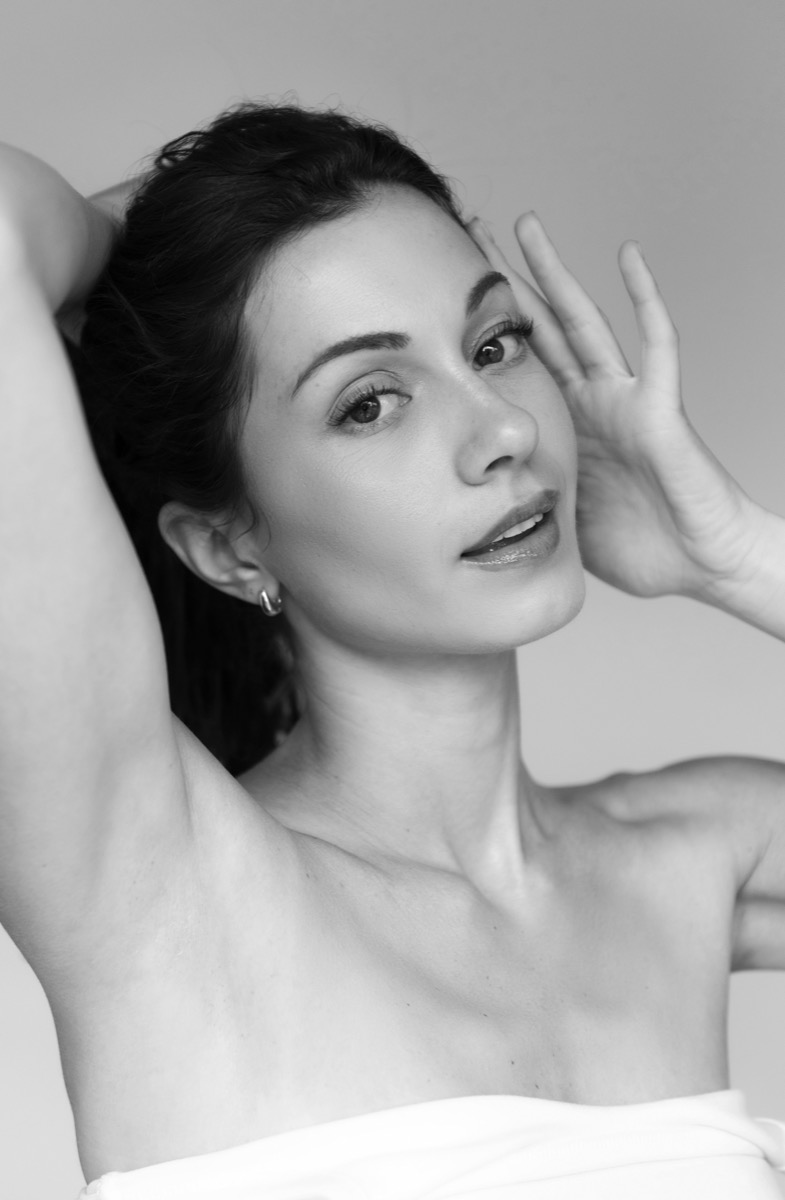
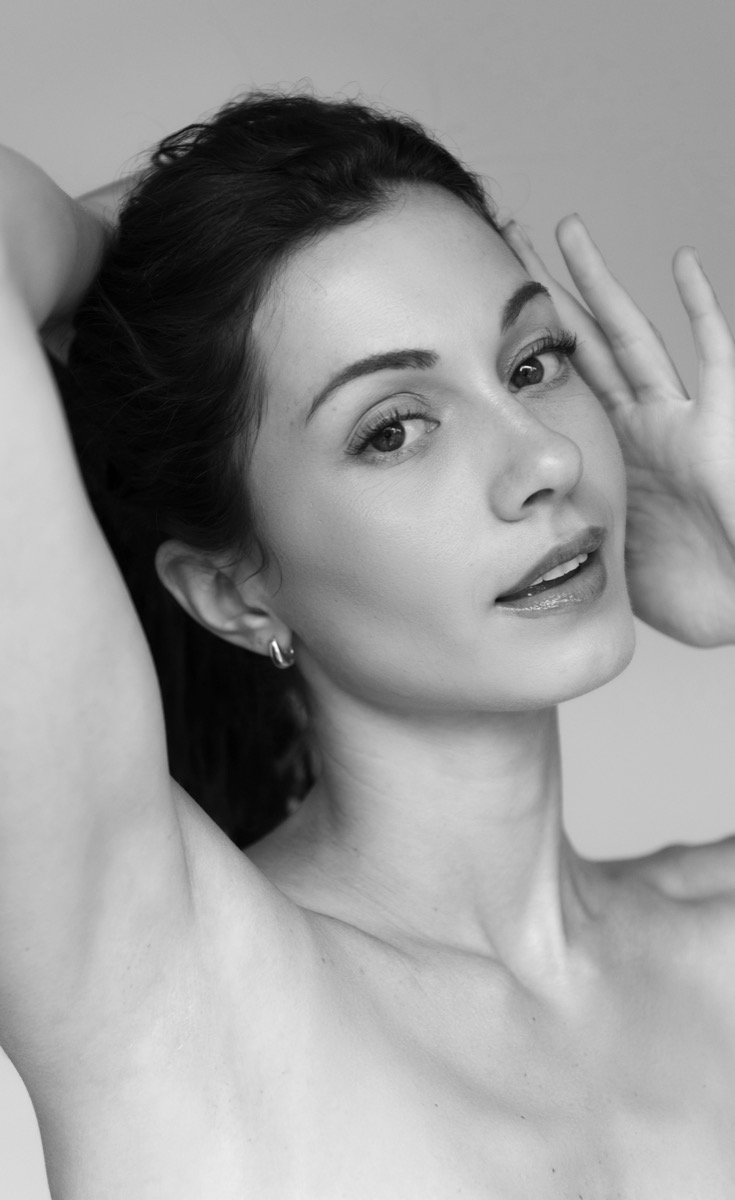
Update portfolio images, contact form with Google Sheets integration, social links, UI refinements

diff --git a/src/components/Contact.jsx b/src/components/Contact.jsx
@@ -12,30 +12,116 @@ export default function Contact() {
     setFormData({ ...formData, [e.target.name]: e.target.value })
   }
 
-  const handleSubmit = (e) => {
+  const [submitting, setSubmitting] = useState(false)
+  const [submitted, setSubmitted] = useState(false)
+
+  const handleSubmit = async (e) => {
     e.preventDefault()
-    // Replace with Formspree or Netlify Forms action
-    console.log('Form submitted:', formData)
-    alert('Message sent — thank you.')
-    setFormData({ name: '', email: '', role: '', message: '' })
+    setSubmitting(true)
+    try {
+      const params = new URLSearchParams()
+      params.append('name', formData.name)
+      params.append('email', formData.email)
+      params.append('role', formData.role)
+      params.append('message', formData.message)
+      await fetch(
+        'https://script.google.com/macros/s/AKfycbw0lHW82Pw77QO_wZfwR3euM-FtFJKcykudnogYUiNATv_z9y13boIBIRutliKRH0si/exec',
+        {
+          method: 'POST',
+          mode: 'no-cors',
+          body: params,
+        }
+      )
+      setSubmitted(true)
+      setFormData({ name: '', email: '', role: '', message: '' })
+    } catch (err) {
+      alert('Something went wrong — please try again.')
+    }
+    setSubmitting(false)
   }
 
   return (
     <section id="contact" className="bg-surface">
       <div className="max-w-[1400px] mx-auto px-6 md:px-12 py-16 md:py-28">
         <div className="reveal mb-10 md:mb-14">
-          <span className="text-[11px] tracking-[0.2em] uppercase text-muted font-light">
+          <span className="text-[11px] tracking-[0.2em] uppercase text-espresso/60 font-light">
             Contact
           </span>
         </div>
 
-        <div className="grid grid-cols-1 lg:grid-cols-2 gap-12 md:gap-16 lg:gap-24">
+        {/* Representation + Social */}
+        <div className="reveal mb-14 md:mb-18">
+          {/* Representation */}
+          <div className="mb-6">
+            <p className="text-[12px] tracking-[0.15em] uppercase text-espresso/60 font-light mb-2">
+              Representation
+            </p>
+            <p className="text-[15px] font-light text-espresso">
+              State Mgmt &mdash;{' '}
+              <a
+                href="https://www.statemgmt.com/new-york/new-york-fit/women/1841393/nina-gamgort"
+                target="_blank"
+                rel="noopener noreferrer"
+                className="glow-hover inline-flex items-center gap-1 text-accent-blue hover:text-accent-blue/80 transition-colors duration-300 rounded-sm px-1 -mx-1"
+              >
+                Portfolio Link Here
+                <svg width="10" height="10" viewBox="0 0 12 12" fill="none" className="translate-y-[0.5px]">
+                  <path d="M1 11L11 1M11 1H3M11 1V9" stroke="currentColor" strokeWidth="1" />
+                </svg>
+              </a>
+            </p>
+          </div>
+
+          {/* Social icons — below representation */}
+          <div className="flex items-center gap-4">
+            <a
+              href="https://www.instagram.com/ninagamgort/"
+              target="_blank"
+              rel="noopener noreferrer"
+              className="glow-hover w-14 h-14 rounded-full border border-espresso/15 flex items-center justify-center text-espresso/50 hover:text-espresso hover:border-espresso/30 transition-all duration-300"
+              aria-label="Instagram"
+            >
+              <svg width="26" height="26" viewBox="0 0 24 24" fill="none" stroke="currentColor" strokeWidth="1.5" strokeLinecap="round" strokeLinejoin="round">
+                <rect x="2" y="2" width="20" height="20" rx="5" />
+                <circle cx="12" cy="12" r="5" />
+                <circle cx="17.5" cy="6.5" r="1" fill="currentColor" stroke="none" />
+              </svg>
+            </a>
+
+            <a
+              href="https://www.tiktok.com/@ninagamgort"
+              target="_blank"
+              rel="noopener noreferrer"
+              className="glow-hover w-14 h-14 rounded-full border border-espresso/15 flex items-center justify-center text-espresso/50 hover:text-espresso hover:border-espresso/30 transition-all duration-300"
+              aria-label="TikTok"
+            >
+              <svg width="24" height="26" viewBox="0 0 15 16" fill="currentColor">
+                <path d="M10.5 0C10.5 2.5 12.5 3.5 14 3.5V6C12.5 6 10.5 5 10.5 5V11C10.5 14 8 16 5.5 16C3 16 0.5 14 0.5 11C0.5 8 3 6 5.5 6V8.5C4 8.5 3 9.5 3 11C3 12.5 4 13.5 5.5 13.5C7 13.5 8 12.5 8 11V0H10.5Z" />
+              </svg>
+            </a>
+
+            <a
+              href="https://www.imdb.com/name/nm4795466/"
+              target="_blank"
+              rel="noopener noreferrer"
+              className="glow-hover w-14 h-14 rounded-full border border-espresso/15 flex items-center justify-center text-espresso/50 hover:text-espresso hover:border-espresso/30 transition-all duration-300"
+              aria-label="IMDb"
+            >
+              <svg width="26" height="26" viewBox="0 0 24 24" fill="currentColor">
+                <rect x="2" y="4" width="20" height="16" rx="2" />
+                <text x="12" y="15.5" textAnchor="middle" fill="#F7F4EF" fontSize="7" fontWeight="700" fontFamily="Arial, sans-serif">IMDb</text>
+              </svg>
+            </a>
+          </div>
+        </div>
+
+        <div className="grid grid-cols-1 lg:grid-cols-2 gap-8 md:gap-10 lg:gap-16">
           {/* Left — statement */}
-          <div className="reveal flex flex-col justify-center">
-            <p className="font-serif text-3xl md:text-4xl lg:text-[42px] text-espresso font-light leading-[1.2] mb-6">
+          <div className="reveal flex flex-col justify-start">
+            <p className="font-serif text-3xl md:text-4xl lg:text-[42px] text-espresso font-light leading-[1.2] mb-4">
               Available for campaigns, commercial, film, and TV.
             </p>
-            <p className="font-serif text-xl md:text-2xl text-accent-amber/80 font-light italic">
+            <p className="font-serif text-xl md:text-2xl text-accent-amber font-light italic">
               I can't wait to meet you.
             </p>
           </div>
@@ -51,7 +137,7 @@ export default function Contact() {
                   value={formData.name}
                   onChange={handleChange}
                   required
-                  className="w-full bg-transparent border-b border-espresso/10 py-3 text-[14px] font-light text-espresso placeholder:text-muted/40 tracking-[0.04em] transition-colors"
+                  className="w-full bg-transparent border-b border-espresso/20 py-3 text-[14px] font-light text-espresso placeholder:text-espresso/40 tracking-[0.04em] transition-colors"
                 />
               </div>
 
@@ -63,7 +149,7 @@ export default function Contact() {
                   value={formData.email}
                   onChange={handleChange}
                   required
-                  className="w-full bg-transparent border-b border-espresso/10 py-3 text-[14px] font-light text-espresso placeholder:text-muted/40 tracking-[0.04em] transition-colors"
+                  className="w-full bg-transparent border-b border-espresso/20 py-3 text-[14px] font-light text-espresso placeholder:text-espresso/40 tracking-[0.04em] transition-colors"
                 />
               </div>
 
@@ -73,7 +159,7 @@ export default function Contact() {
                   value={formData.role}
                   onChange={handleChange}
                   required
-                  className="w-full bg-transparent border-b border-espresso/10 py-3 text-[14px] font-light text-espresso tracking-[0.04em] transition-colors appearance-none cursor-pointer"
+                  className="w-full bg-transparent border-b border-espresso/20 py-3 text-[14px] font-light text-espresso tracking-[0.04em] transition-colors appearance-none cursor-pointer"
                   style={{
                     color: formData.role ? undefined : 'rgba(122, 116, 108, 0.4)',
                   }}
@@ -94,20 +180,27 @@ export default function Contact() {
                   onChange={handleChange}
                   rows={4}
                   required
-                  className="w-full bg-transparent border-b border-espresso/10 py-3 text-[14px] font-light text-espresso placeholder:text-muted/40 tracking-[0.04em] transition-colors resize-none"
+                  className="w-full bg-transparent border-b border-espresso/20 py-3 text-[14px] font-light text-espresso placeholder:text-espresso/40 tracking-[0.04em] transition-colors resize-none"
                 />
               </div>
 
               <div className="pt-4">
-                <button
-                  type="submit"
-                  className="submit-glow group inline-flex items-center gap-3 text-[12px] tracking-[0.15em] uppercase font-light text-espresso hover:text-accent-blue transition-colors duration-300 px-5 py-2.5 rounded-full border border-transparent hover:border-accent-blue/15 glow-hover"
-                >
-                  <span>Contact Nina</span>
-                  <svg width="20" height="8" viewBox="0 0 20 8" fill="none" className="transition-transform duration-300 group-hover:translate-x-1">
-                    <path d="M0 4H18M18 4L14 0.5M18 4L14 7.5" stroke="currentColor" strokeWidth="0.75" />
-                  </svg>
-                </button>
+                {submitted ? (
+                  <p className="text-[13px] tracking-[0.08em] text-accent-blue font-light">
+                    Thank you — your message has been sent.
+                  </p>
+                ) : (
+                  <button
+                    type="submit"
+                    disabled={submitting}
+                    className="submit-glow group inline-flex items-center gap-3 text-[12px] tracking-[0.15em] uppercase font-light text-espresso hover:text-accent-blue transition-colors duration-300 px-5 py-2.5 rounded-full border border-transparent hover:border-accent-blue/15 glow-hover disabled:opacity-50"
+                  >
+                    <span>{submitting ? 'Sending...' : 'Contact Nina'}</span>
+                    <svg width="20" height="8" viewBox="0 0 20 8" fill="none" className="transition-transform duration-300 group-hover:translate-x-1">
+                      <path d="M0 4H18M18 4L14 0.5M18 4L14 7.5" stroke="currentColor" strokeWidth="0.75" />
+                    </svg>
+                  </button>
+                )}
               </div>
             </form>
           </div>

diff --git a/src/components/About.jsx b/src/components/About.jsx
@@ -26,19 +26,15 @@ export default function About() {
         <div className="reveal flex flex-col justify-center">
           <div className="max-w-lg">
             <p className="text-[15px] md:text-[16px] leading-[1.8] text-espresso/85 font-light mb-6">
-              Nina has built her career on the thing most people mistake for simplicity — knowing exactly how to be present. After years of fit and campaign work with brands like Calvin Klein, Coach, and L'Oréal, she brings a grounded, instinctive quality to every frame.
+              Nina is an actress and model based in New York City. With campaign, ecommerce, and fit work spanning Pampers, Uniqlo, Calvin Klein, Coach, and L'Oréal, she brings a grounded, instinctive quality to every frame.
             </p>
 
             <p className="text-[15px] md:text-[16px] leading-[1.8] text-espresso/85 font-light mb-6">
-              The Pampers box. The L'Oréal Color Sonic campaign. Amazon across swim, outerwear, and intimates. DKNY, Uniqlo, Coach — the range is there because the work ethic is there. But range without depth is just versatility for its own sake.
-            </p>
-
-            <p className="text-[15px] md:text-[16px] leading-[1.8] text-espresso/85 font-light mb-6">
-              That's why she's moving deliberately into acting. The same presence that makes a campaign image stop someone mid-scroll translates to something richer on screen: the ability to inhabit a character without announcing it. She isn't interested in performing. She's interested in being believed.
+              That body of work covers a genuine range of brands and categories across commercial, fit, and ecommerce. As she expands into acting, that same presence carries into character work on screen. She's drawn to layered, complex roles and serious about the craft of building them.
             </p>
 
             <p className="text-[15px] md:text-[16px] leading-[1.8] text-espresso/85 font-light mb-10">
-              Nina is drawn to layered, complex characters — the ones who sit in ambiguity, who feel like real people rather than narrative devices. She's serious about the craft, committed to the work, and ready for roles that ask for depth.
+              Nina gravitates toward characters who feel like real people, ones that sit in ambiguity rather than serving as narrative devices. She's committed to the work and focused on character development.
             </p>
 
             {/* Representation */}

diff --git a/src/components/Footer.jsx b/src/components/Footer.jsx
@@ -26,7 +26,7 @@ export default function Footer() {
           </a>
           {/* Instagram — replace # with actual handle */}
           <a
-            href="#instagram-link"
+            href="https://www.instagram.com/ninagamgort/"
             target="_blank"
             rel="noopener noreferrer"
             className="text-[11px] tracking-[0.1em] uppercase font-light text-muted/60 hover:text-espresso transition-colors"
@@ -36,23 +36,10 @@ export default function Footer() {
           </a>
         </div>
 
-        {/* Agency + copyright */}
-        <div className="flex flex-col items-center md:items-end gap-0.5">
-          <span className="text-[10px] tracking-[0.1em] uppercase text-muted/40 font-light">
-            Represented by{' '}
-            <a
-              href="https://statemgmt.com"
-              target="_blank"
-              rel="noopener noreferrer"
-              className="hover:text-muted/60 transition-colors"
-            >
-              State Management
-            </a>
-          </span>
-          <span className="text-[10px] tracking-[0.1em] text-muted/30 font-light">
-            &copy; {new Date().getFullYear()}
-          </span>
-        </div>
+        {/* Copyright */}
+        <span className="text-[10px] tracking-[0.1em] text-muted/30 font-light">
+          &copy; {new Date().getFullYear()}
+        </span>
       </div>
     </footer>
   )

diff --git a/src/components/Work.jsx b/src/components/Work.jsx
@@ -169,11 +169,8 @@ export default function Work() {
 
               {/* Text below tile */}
               <div className="mt-2.5 pr-1">
-                <p className="text-[12px] leading-[1.4] font-light text-espresso/75 group-hover:text-espresso transition-colors duration-300 line-clamp-2">
-                  {item.desc}
-                </p>
-                <p className="text-[11px] tracking-[0.06em] font-light text-muted/60 mt-0.5 flex items-center gap-1.5">
-                  <span>{item.brand}</span>
+                <p className="text-[12px] leading-[1.4] font-light text-accent-blue/70 group-hover:text-accent-blue transition-colors duration-300 flex items-center gap-1.5">
+                  <span>Link Here</span>
                   <span className="inline-block w-3 h-3 opacity-0 group-hover:opacity-100 transition-opacity duration-300 translate-y-[0.5px]">
                     <LinkArrowIcon />
                   </span>

diff --git a/src/components/Portfolio.jsx b/src/components/Portfolio.jsx
@@ -13,7 +13,7 @@ const PORTFOLIO_ITEMS = [
   { id: '5.4',  src: '/portfolio/opt/ninagamgort43256 (1).jpg',  label: 'Editorial' },
   { id: '5.5',  src: '/portfolio/opt/ninagamgort43364_2.jpg',    label: 'Editorial' },
   { id: '5.6',  src: '/portfolio/opt/ninagamgort43387.jpg',      label: 'Editorial' },
-  { id: '5.7',  src: '/portfolio/opt/ninagamgort43275_1.jpg',    label: 'Editorial' },
+  { id: '5.7',  src: '/portfolio/opt/IMG_0325.PNG',               label: 'Portrait' },
   { id: '5.8',  src: '/portfolio/opt/ninagamgort43275_2.jpg',    label: 'Editorial' },
   { id: '5.9',  src: '/portfolio/opt/ninagamgort43285_1_2.jpg',  label: 'Portrait' },
   { id: '5.10', src: '/portfolio/opt/DSC_2798.JPG',              label: 'Portrait' },

diff --git a/src/components/Nav.jsx b/src/components/Nav.jsx
@@ -41,9 +41,6 @@ export default function Nav() {
             <span className="font-serif text-xl md:text-2xl text-espresso tracking-[0.02em]">
               Nina
             </span>
-            <span className="text-[10px] tracking-[0.12em] uppercase text-muted/70 font-light -mt-0.5 hidden md:block">
-              Represented by State Management
-            </span>
           </a>
 
           {/* Desktop links */}
